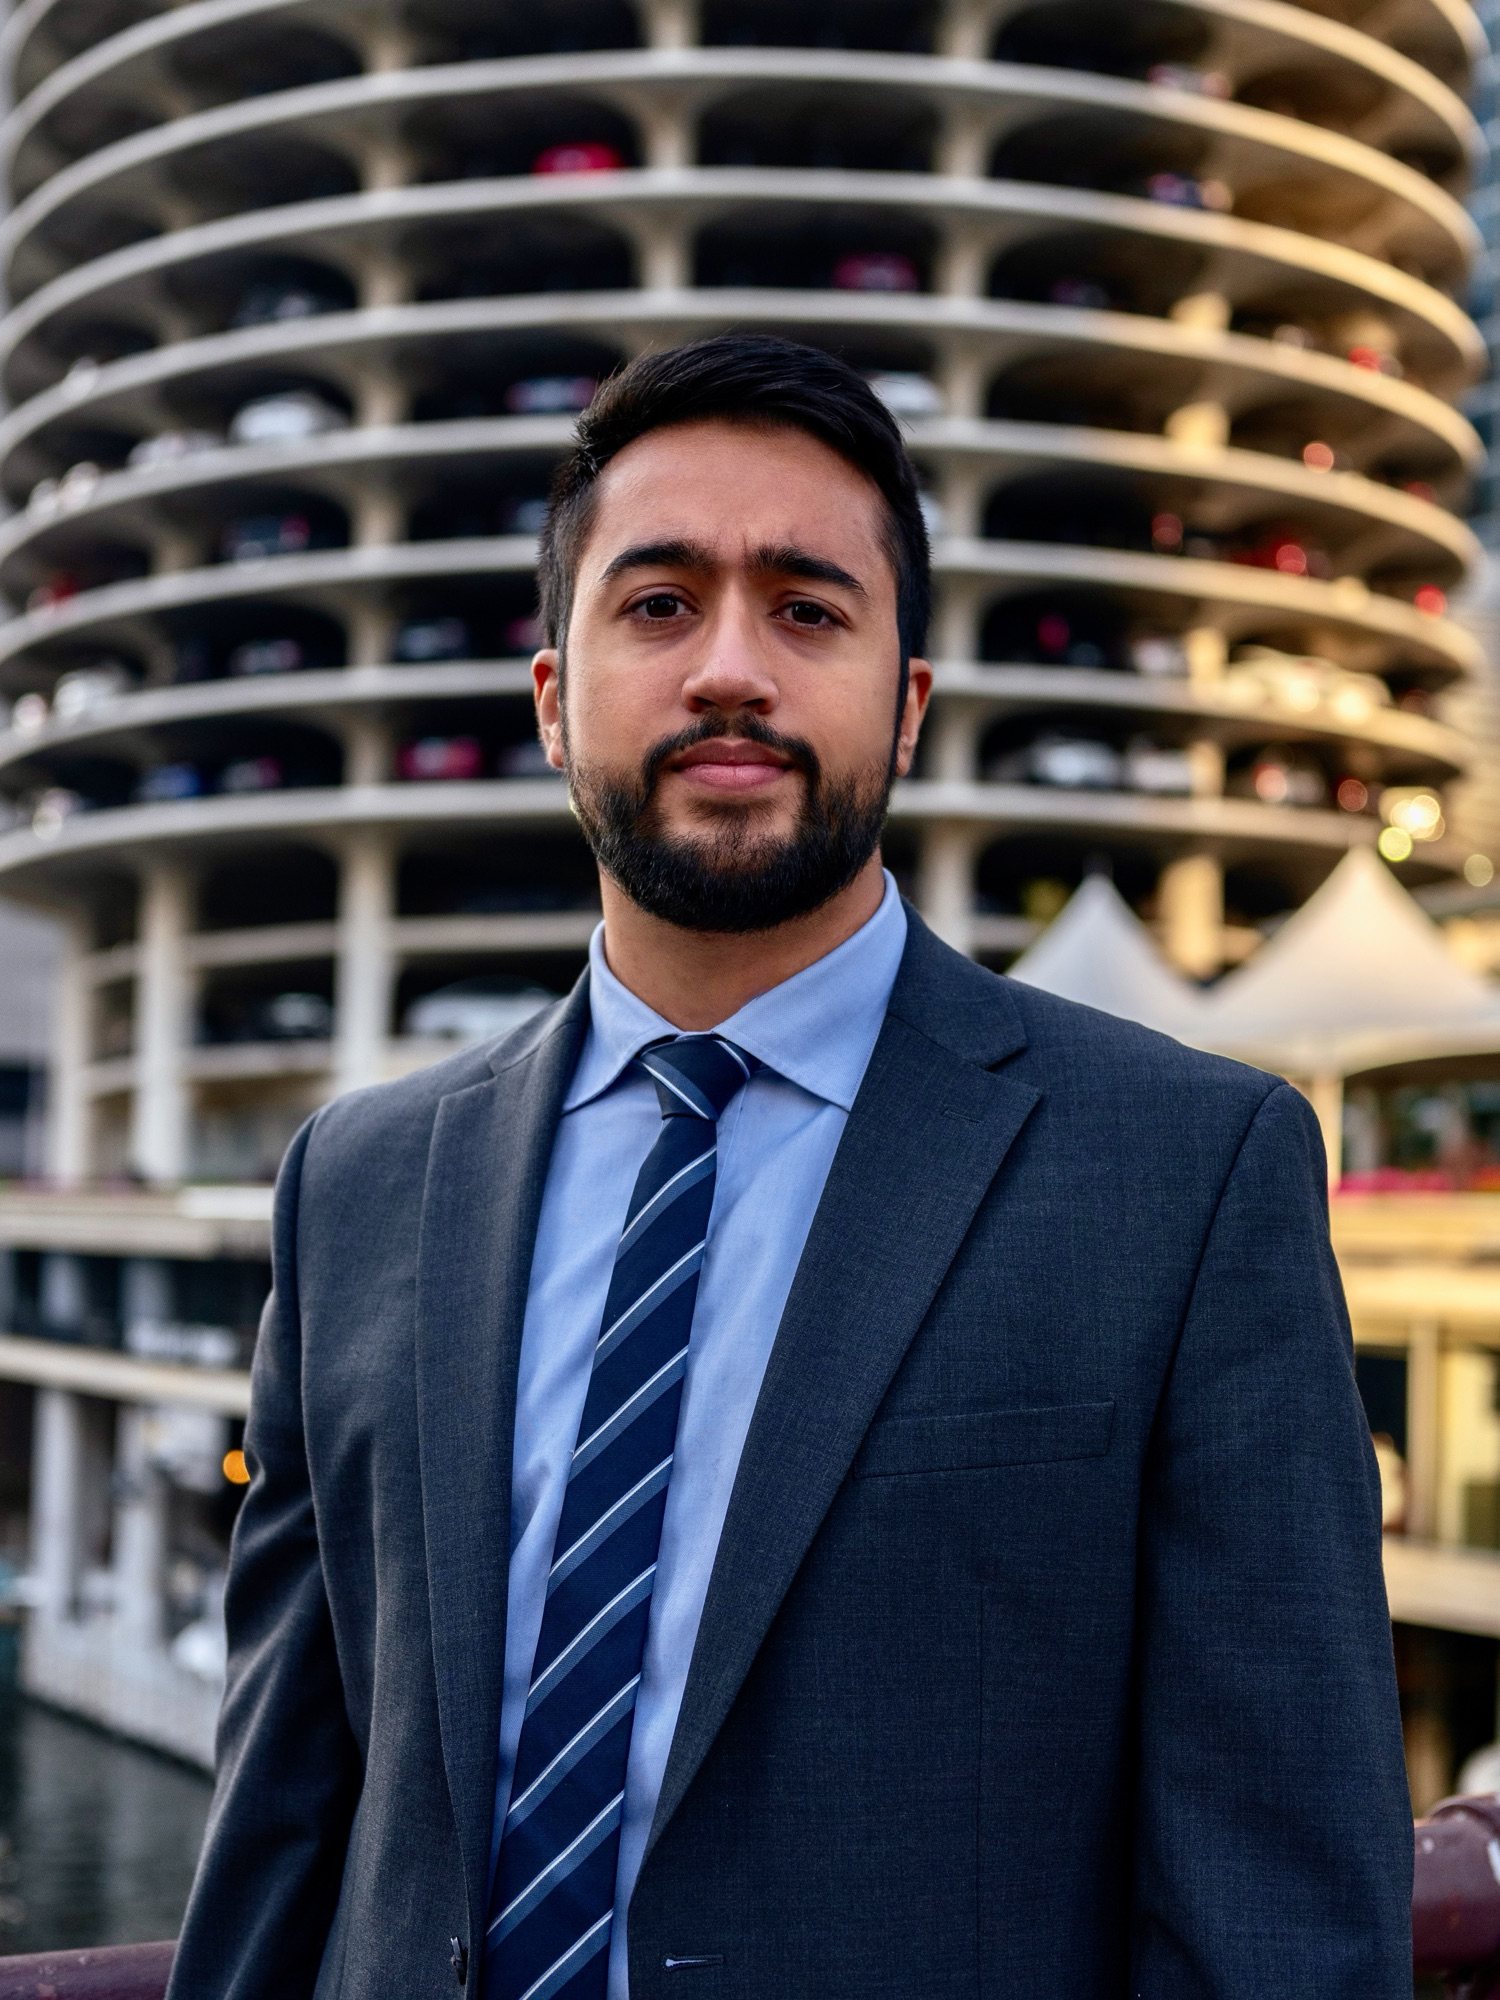
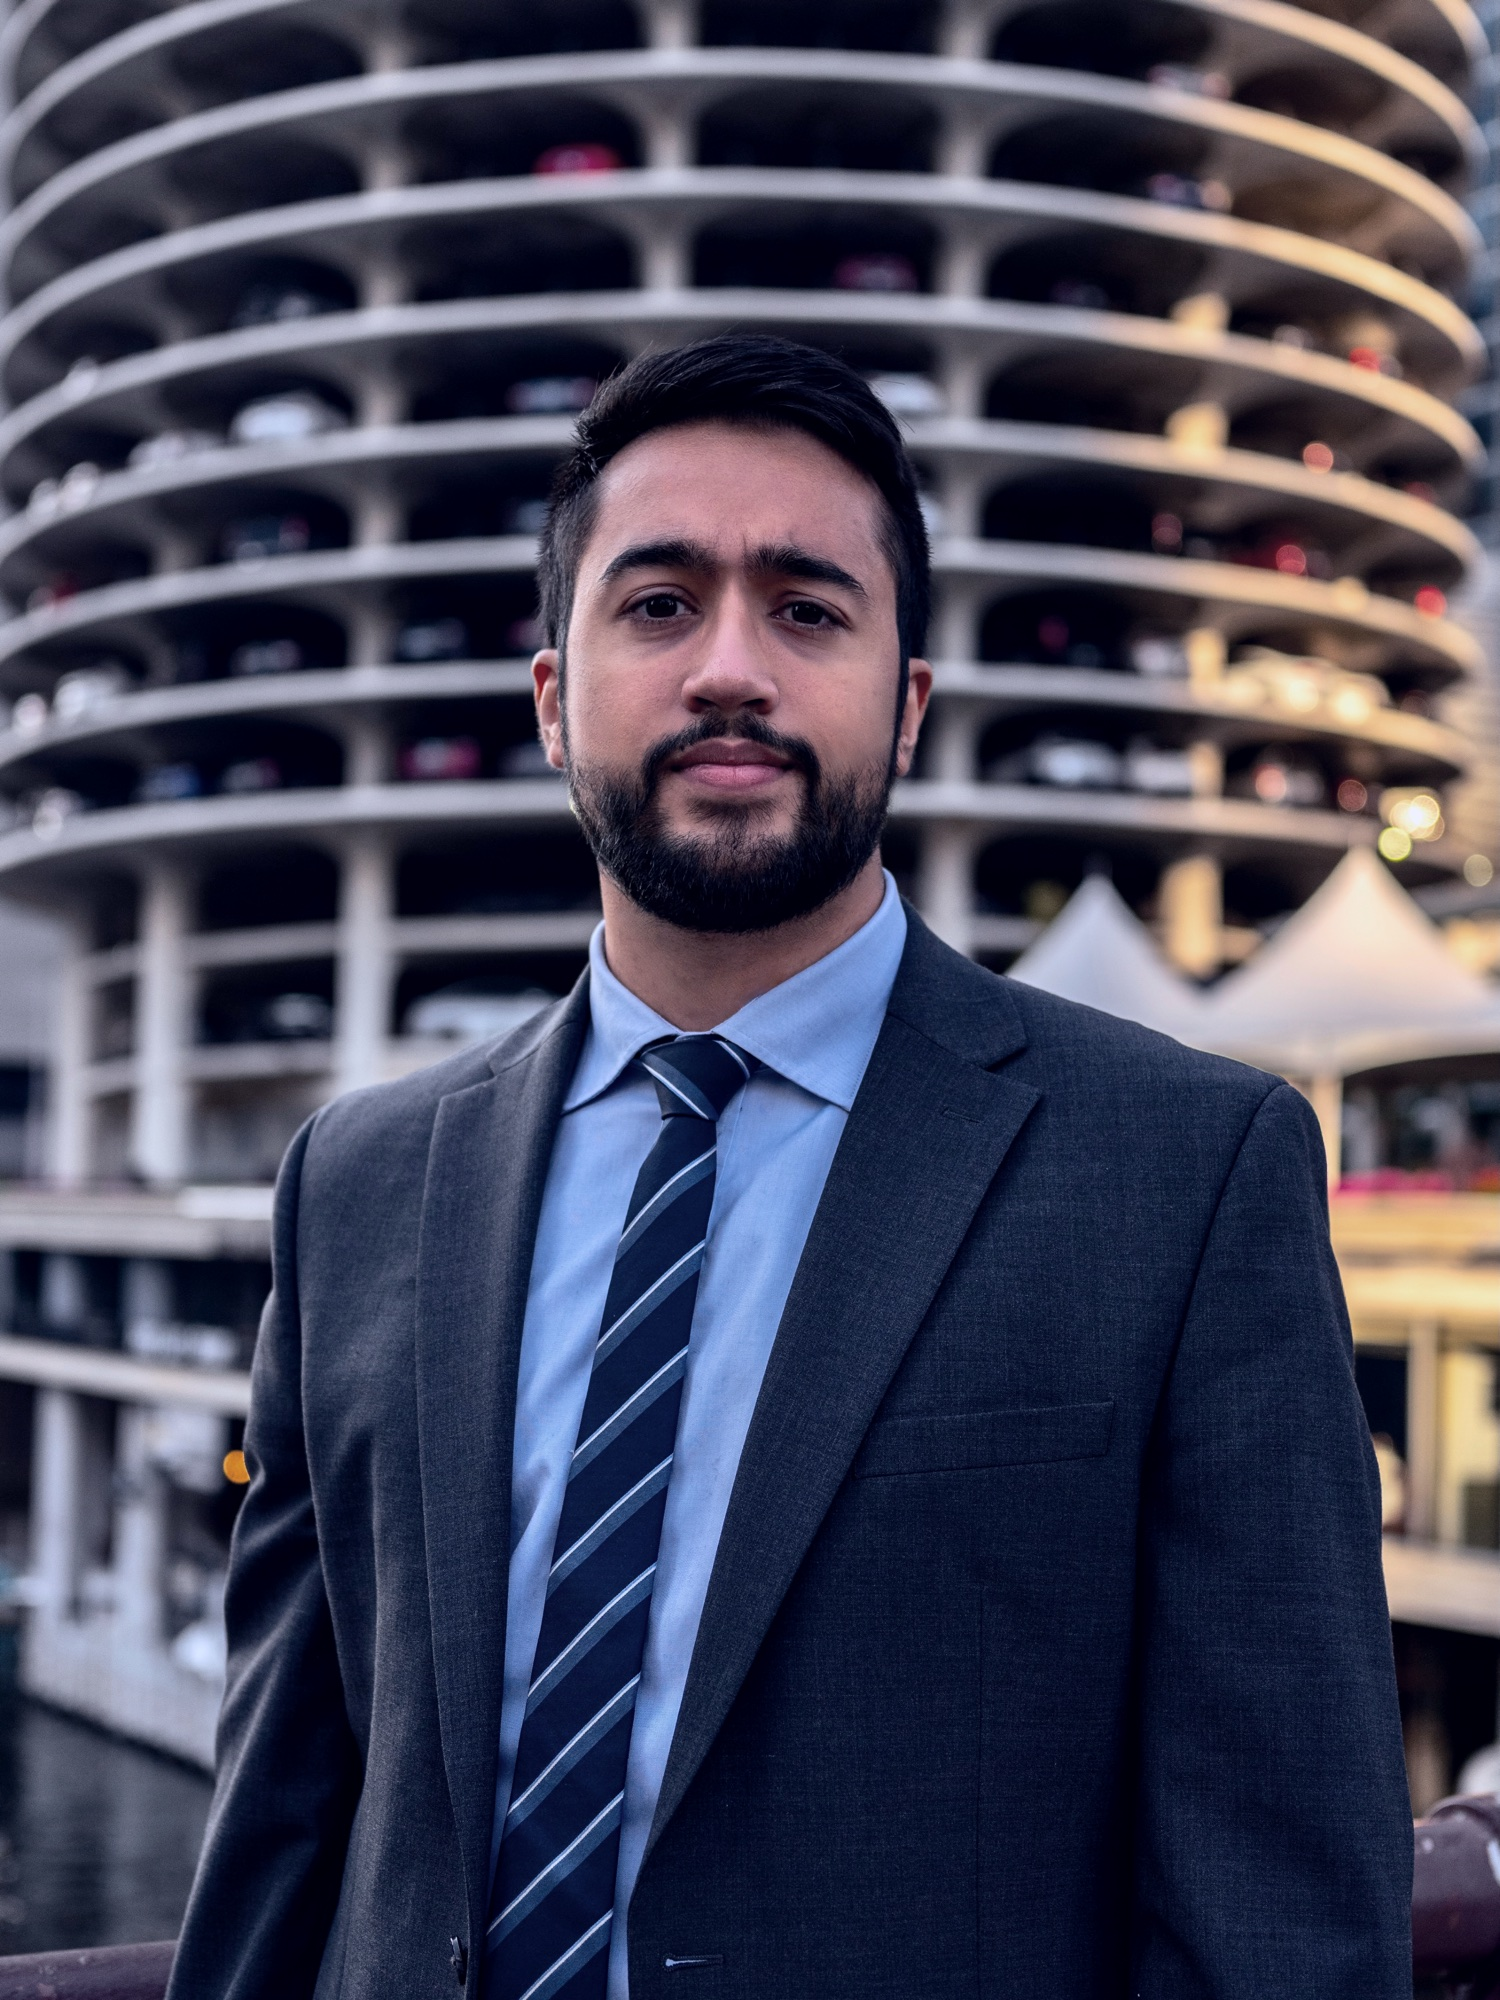
Reorder work (Ammar first), color portrait, copy tweaks, mobile stat fix
- Move Ammar for Congress to #1 across Work and home (renumbered)
- Swap portrait to the new color version (hero + About); drop grayscale
- Homepage subtitle → "Fundraising for Democratic campaigns across America."
- Footer line → "Singapore born. Chicago raised."
- Fix case-study stats overflowing on phones — stack single-column ≤640px

diff --git a/lib/data.ts b/lib/data.ts
@@ -48,35 +48,35 @@ export interface Plate {
 // especially photogenic) — swap in real ones via `img` if/when you have them.
 export const CG_WORK: WorkItem[] = [
   {
-    id: "morse",
-    no: "01",
-    role: "Finance Director",
-    title: "Jessica Morse for Congress",
-    place: "California · 2023–24",
-    tags: ["Call time", "Budget", "PACs & labor"],
-    blurb:
-      "Ran the finance operation for a top-tier U.S. House race — building the finance plan and call-time program, prospecting and managing hundreds of hours of candidate call time, and outraising a sitting Republican incumbent in back-to-back quarters.",
-    img: "/placeholders/work-01.svg",
-    stats: [
-      { value: "$2.2M+", label: "Total raised" },
-      { value: "2", unit: "qtrs", label: "Outraising the incumbent" },
-      { value: "PAC", label: "& labor support secured" },
-    ],
-  },
-  {
     id: "ammar",
-    no: "02",
+    no: "01",
     role: "Finance Director",
     title: "Ammar for Congress",
     place: "CA-48 · 2026",
     tags: ["Call time", "Paid comms", "Warchest"],
     blurb:
       "Directed finance for a competitive open-seat congressional race — building and operationalizing the finance plan and call-time program, owning budget and cashflow through spend-down, and helping shape contrast strategy across mail and digital.",
-    img: "/placeholders/work-02.svg",
+    img: "/placeholders/work-01.svg",
     stats: [
       { value: "$350K+", label: "Raised as Finance Director" },
       { value: "+33%", label: "Lift over the prior period", delta: "+33%" },
       { value: "CA-48", label: "Open-seat U.S. House race" },
+    ],
+  },
+  {
+    id: "morse",
+    no: "02",
+    role: "Finance Director",
+    title: "Jessica Morse for Congress",
+    place: "California · 2023–24",
+    tags: ["Call time", "Budget", "PACs & labor"],
+    blurb:
+      "Ran the finance operation for a top-tier U.S. House race — building the finance plan and call-time program, prospecting and managing hundreds of hours of candidate call time, and outraising a sitting Republican incumbent in back-to-back quarters.",
+    img: "/placeholders/work-02.svg",
+    stats: [
+      { value: "$2.2M+", label: "Total raised" },
+      { value: "2", unit: "qtrs", label: "Outraising the incumbent" },
+      { value: "PAC", label: "& labor support secured" },
     ],
   },
   {

diff --git a/app/styles/site.css b/app/styles/site.css
@@ -53,6 +53,15 @@ body {
   }
 }
 
+@media (max-width: 640px) {
+  /* Case-study metrics stack on phones — big display figures can't sit
+     three-across on a narrow screen without overflowing. */
+  .cg-stats {
+    grid-template-columns: 1fr !important;
+    gap: 18px !important;
+  }
+}
+
 @media (max-width: 560px) {
   .cg-collapse-4 {
     grid-template-columns: 1fr !important;

diff --git a/app/page.tsx b/app/page.tsx
@@ -53,7 +53,7 @@ function Hero() {
           </Reveal>
           <Reveal delay={150}>
             <p style={{ fontFamily: "var(--font-sans)", fontSize: "clamp(1.05rem, 1.6vw, 1.3rem)", fontWeight: 500, lineHeight: 1.4, color: "var(--text-secondary)", margin: "20px 0 0", maxWidth: "34ch" }}>
-              Campaign finance and photography.
+              Fundraising for Democratic campaigns across America.
             </p>
           </Reveal>
         </div>
@@ -65,7 +65,7 @@ function Hero() {
               ref={imgRef}
               src={CG_PORTRAIT}
               alt="Chailuv Gidwani in front of Marina City, Chicago"
-              style={{ position: "absolute", inset: 0, width: "100%", height: "100%", objectFit: "cover", objectPosition: "center 20%", filter: "grayscale(1) contrast(1.03)", transform: "scale(1.06)", willChange: "transform" }}
+              style={{ position: "absolute", inset: 0, width: "100%", height: "100%", objectFit: "cover", objectPosition: "center 20%", transform: "scale(1.06)", willChange: "transform" }}
             />
           </div>
         </Reveal>

diff --git a/app/about/AboutView.tsx b/app/about/AboutView.tsx
@@ -35,7 +35,7 @@ export function AboutView() {
             <div style={{ position: "relative", aspectRatio: "4 / 5", overflow: "hidden", borderRadius: "var(--radius-2)", boxShadow: "inset 0 0 0 1px var(--rule-strong)" }}>
               {/* PLACEHOLDER portrait — replace /public/placeholders/portrait.svg. */}
               {/* eslint-disable-next-line @next/next/no-img-element */}
-              <img src={CG_PORTRAIT} alt="Chailuv Gidwani in front of Marina City, Chicago" style={{ width: "100%", height: "100%", objectFit: "cover", objectPosition: "center 20%", filter: "grayscale(1) contrast(1.03)" }} />
+              <img src={CG_PORTRAIT} alt="Chailuv Gidwani in front of Marina City, Chicago" style={{ width: "100%", height: "100%", objectFit: "cover", objectPosition: "center 20%" }} />
             </div>
           </Reveal>
           <div>

diff --git a/app/work/WorkView.tsx b/app/work/WorkView.tsx
@@ -42,7 +42,7 @@ function CaseStudy({ w, flip }: { w: WorkItem; flip: boolean }) {
             <div style={{ fontFamily: "var(--font-mono)", fontSize: 12, letterSpacing: "0.12em", textTransform: "uppercase", color: "var(--accent)", marginBottom: 12 }}>{w.role} · {w.place}</div>
             <h2 style={{ fontFamily: "var(--font-display)", fontWeight: 700, fontSize: "clamp(1.8rem, 3.4vw, 2.9rem)", letterSpacing: "-0.028em", lineHeight: 1.02 }}>{w.title}</h2>
             <p style={{ fontFamily: "var(--font-sans)", fontSize: "1.1rem", lineHeight: 1.6, color: "var(--text-secondary)", margin: "18px 0 0", maxWidth: "46ch" }}>{w.blurb}</p>
-            <div style={{ display: "grid", gridTemplateColumns: "repeat(3, 1fr)", gap: 22, marginTop: 32 }}>
+            <div className="cg-stats" style={{ display: "grid", gridTemplateColumns: "repeat(3, minmax(0, 1fr))", gap: 22, marginTop: 32 }}>
               {w.stats.map((s, i) => (
                 <StatBlock key={i} value={s.value} unit={s.unit} label={s.label} delta={s.delta} />
               ))}

diff --git a/components/site/Footer.tsx b/components/site/Footer.tsx
@@ -65,7 +65,7 @@ export function Footer() {
         <div className="cg-footer-grid" style={{ display: "grid", gridTemplateColumns: "1.4fr 1fr 1fr", gap: 40, marginTop: 40, alignItems: "start" }}>
           <div>
             <h3 style={{ fontFamily: "var(--font-display)", fontWeight: 700, fontSize: "clamp(1.6rem, 3vw, 2.4rem)", letterSpacing: "-0.025em", lineHeight: 1.05, color: "var(--egg-50)", maxWidth: "16ch" }}>
-              Let&apos;s win the morning.
+              Singapore born. Chicago raised.
             </h3>
             <div style={{ marginTop: 24 }}>
               <Button as="a" href={`mailto:${CONTACT_EMAIL}`} variant="primary">

diff --git a/components/content/StatBlock.tsx b/components/content/StatBlock.tsx
@@ -43,6 +43,7 @@ export function StatBlock({
         display: "flex",
         flexDirection: "column",
         gap: 10,
+        minWidth: 0,
         textAlign: align,
         paddingTop: 14,
         borderTop: `2px solid ${ruleColor}`,